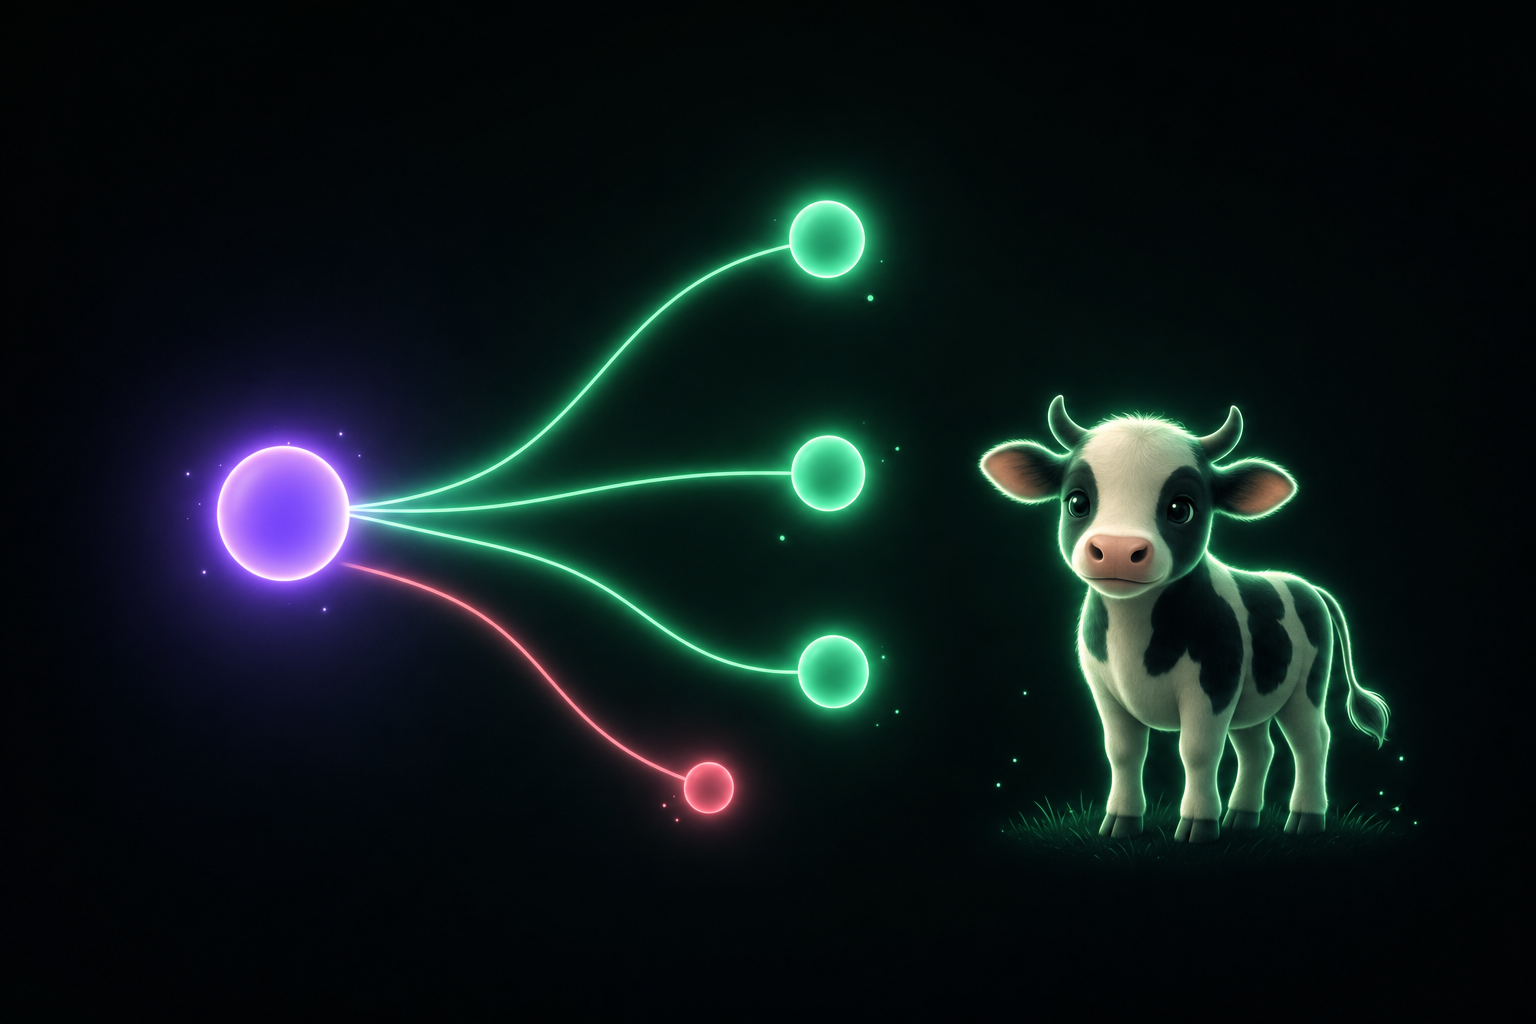
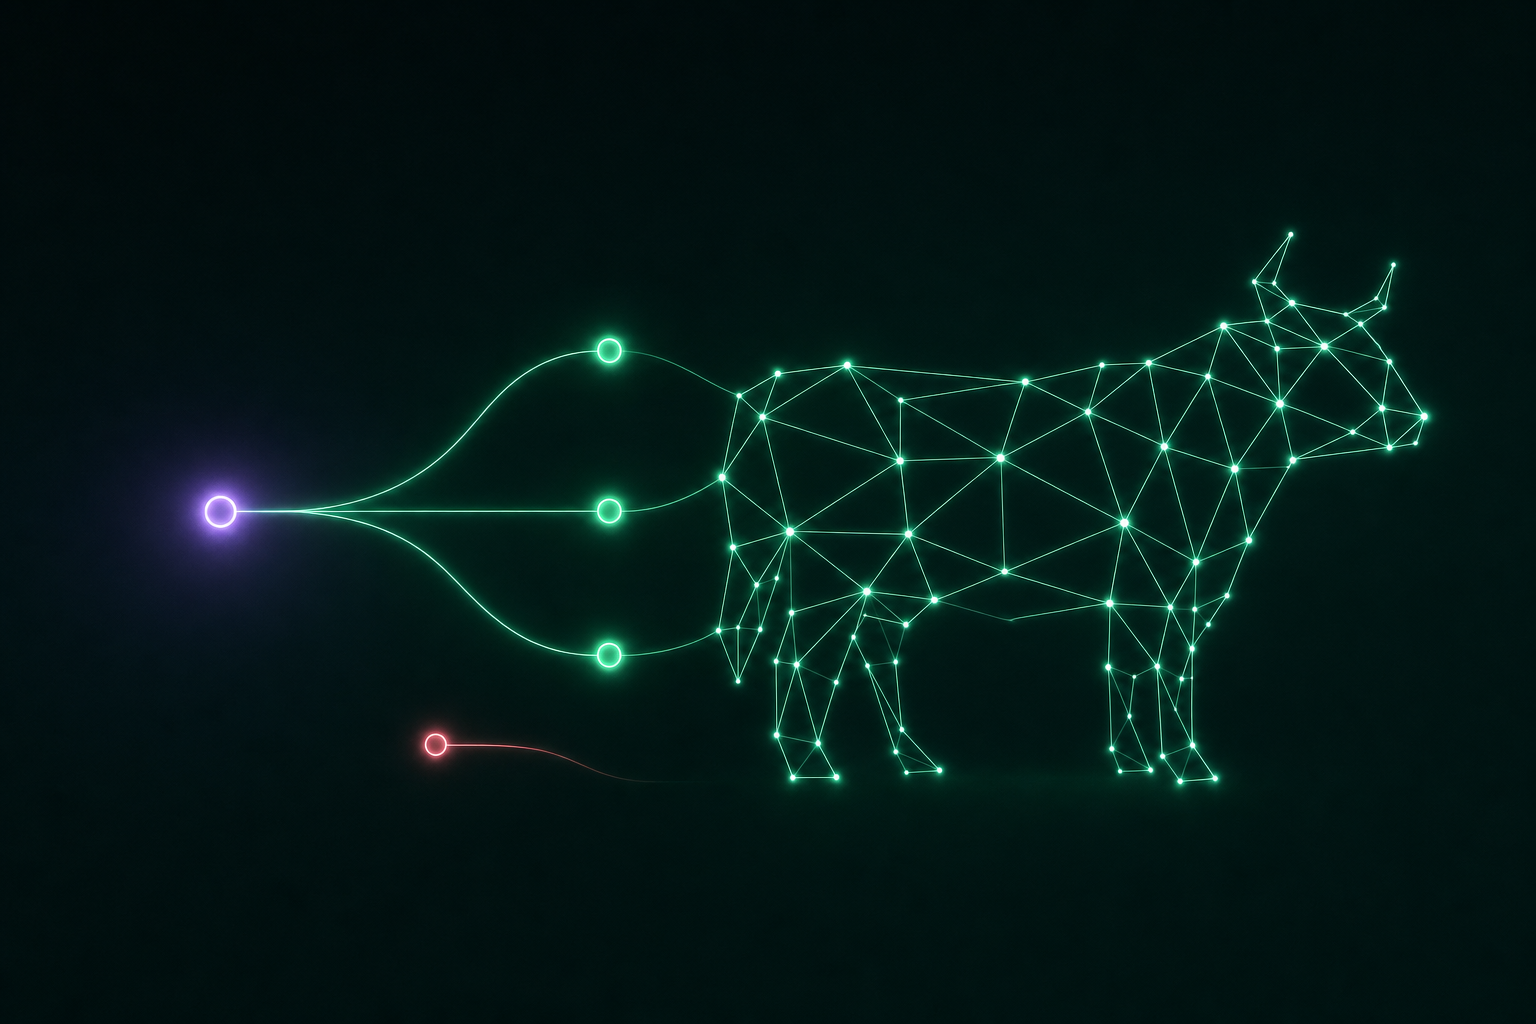
Refine share card to a sophisticated constellation cow; add a (clean) dad joke
- og-card.png regenerated: low-poly node-graph "constellation cow" built from
  the same branch-graph nodes/lines — premium and on-brand, not cartoonish.
- hero caption gets one tasteful pun ("udderly efficient, no bull").

Changed region(s): [[0.0938, 0.1562, 0.9375, 0.8438], [0.25, 0.6875, 0.3438, 0.75]]

diff --git a/ruv-explainer-agenticow/index.html b/ruv-explainer-agenticow/index.html
@@ -14,7 +14,7 @@
 <meta property="og:image" content="https://agenticow-explainer.netlify.app/assets/img/og-card.png">
 <meta property="og:image:width" content="1536">
 <meta property="og:image:height" content="1024">
-<meta property="og:image:alt" content="A glowing violet base node branching into mint copies — copy-on-write, like Git — beside a friendly cow mascot.">
+<meta property="og:image:alt" content="A glowing violet base node branching into mint copies — copy-on-write, like Git — beside a low-poly constellation cow built from the same nodes and lines.">
 <meta name="twitter:card" content="summary_large_image">
 <meta name="twitter:title" content="agenticow — Git for Agent Memory">
 <meta name="twitter:description" content="Branch your AI agent's memory like Git: a private copy per user, an instant checkpoint, a one-step undo — for ~162 bytes instead of copying the whole memory.">
@@ -84,7 +84,7 @@
         <figure class="hero-figure">
           <img src="/assets/img/hero.png" alt="A glowing version-control graph: one violet base node on the left, mint-green branch lines arcing out to many child nodes (copy-on-write branches), a few dissolving into coral dust (discarded experiments), and a small friendly cow grazing among the branches.">
         </figure>
-        <p class="hero-figcap">one base → many cheap copy-on-write branches: fork, checkpoint, roll back, merge — like Git</p>
+        <p class="hero-figcap">one base → many cheap copy-on-write branches: fork, checkpoint, roll back, merge — like Git <span style="opacity:.65">· udderly efficient, no bull</span></p>
       </div>
     </div>
 